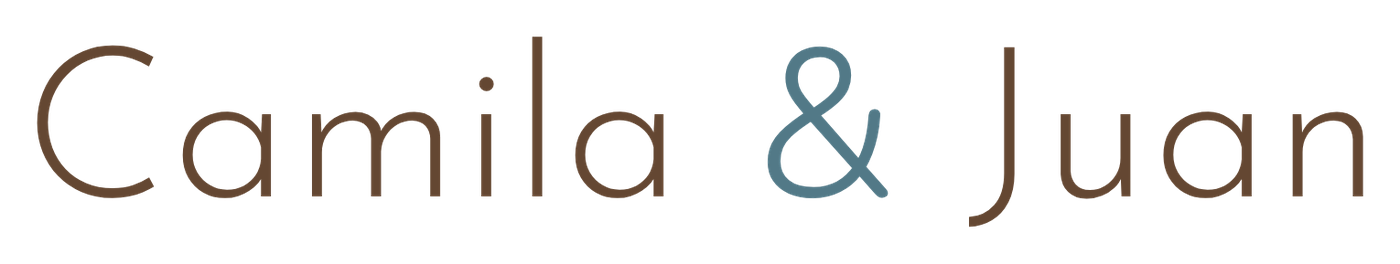
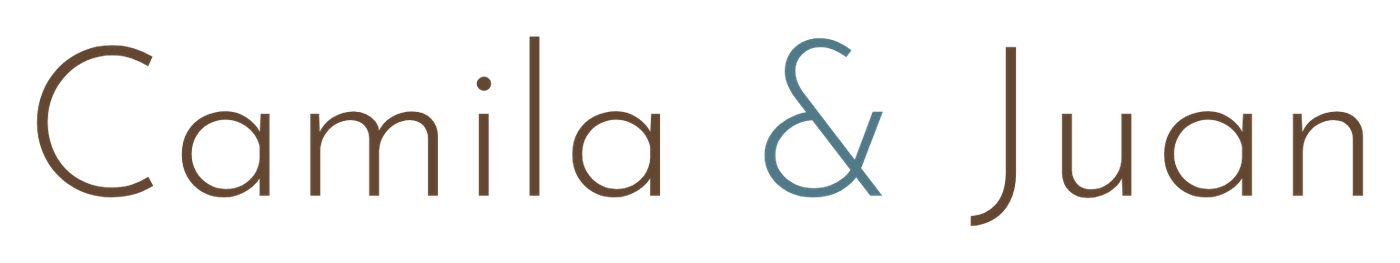
Josefin con su & original
Claude-Session: https://claude.ai/code/session_01CPC8ckxxTpQ5o2jahJbfrt

diff --git a/invitacion/index.html b/invitacion/index.html
@@ -22,7 +22,7 @@
 <main class="invitation">
   <header class="hero">
     <p class="eyebrow">Nos casamos</p>
-    <h1 class="names"><img src="assets/nombres-josefin.png?v=3" alt="Camila &amp; Juan" width="1400" height="264"></h1>
+    <h1 class="names"><img src="assets/nombres-josefin.png?v=4" alt="Camila &amp; Juan" width="1400" height="263"></h1>
     <p class="subtitle">Una historia, un gran <em>sí.</em></p>
     <p class="date"><time datetime="2026-12-08">08.12.2026</time></p>
     <div class="divider" aria-hidden="true"><img src="assets/linea.png" alt=""></div>
@@ -64,7 +64,7 @@
     <div class="gift-circle"><svg class="large-icon"><use href="#gift"/></svg></div>
     <div><h2 id="gifts-title">Regalos</h2><p class="eyebrow alias-label">Alias</p><button class="alias" id="copy-alias" aria-label="Copiar alias BODACAMILAYJUAN">BODACAMILAYJUAN <span class="copy-hint">Tocá para copiar</span></button><p class="small">También habrá una urna en la fiesta.</p></div>
   </section>
-  <footer><div class="divider" aria-hidden="true"><img src="assets/linea.png" alt=""></div><p class="names"><img src="assets/nombres-josefin.png?v=3" alt="Camila &amp; Juan" width="1400" height="264"></p></footer>
+  <footer><div class="divider" aria-hidden="true"><img src="assets/linea.png" alt=""></div><p class="names"><img src="assets/nombres-josefin.png?v=4" alt="Camila &amp; Juan" width="1400" height="263"></p></footer>
 </main>
 <dialog id="form-dialog" aria-labelledby="dialog-title">
   <button class="close-dialog" aria-label="Cerrar">×</button>

diff --git a/index.html b/index.html
@@ -80,8 +80,8 @@
   <div class="sobre" id="sobre">
     <div class="invitacion">
       <span class="eyebrow">Nos casamos</span>
-      <img class="names" src="invitacion/assets/nombres-josefin.png?v=3" alt="Camila &amp; Juan">
-      <script>(function(){var f=new URLSearchParams(location.search).get('fuente');if(/^(quicksand|nunito|comfortaa|josefin|raleway|jost|poppins|montserrat|lexend)$/.test(f||''))document.currentScript.previousElementSibling.src='invitacion/assets/nombres-'+f+'.png?v=3';})();</script>
+      <img class="names" src="invitacion/assets/nombres-josefin.png?v=4" alt="Camila &amp; Juan">
+      <script>(function(){var f=new URLSearchParams(location.search).get('fuente');if(/^(quicksand|nunito|comfortaa|josefin|raleway|jost|poppins|montserrat|lexend)$/.test(f||''))document.currentScript.previousElementSibling.src='invitacion/assets/nombres-'+f+'.png?v=4';})();</script>
       <img class="line" src="invitacion/assets/linea.png" alt="">
       <span class="date">08.12.2026</span>
       <span class="place">Palacio Sans Souci</span>

diff --git a/invitacion/app.js b/invitacion/app.js
@@ -10,7 +10,7 @@
   document.documentElement.classList.add('fuente-prueba');
   document.documentElement.style.setProperty('--fuente', "'" + fam + "', sans-serif");
   document.addEventListener('DOMContentLoaded', () => document.querySelectorAll('.names img').forEach(i => {
-    i.src = 'assets/nombres-' + f + '.png?v=3'; i.removeAttribute('height');
+    i.src = 'assets/nombres-' + f + '.png?v=4'; i.removeAttribute('height');
   }));
 })();
 // Animaciones de carga: el encabezado entra en cascada y el resto al hacer scroll.
